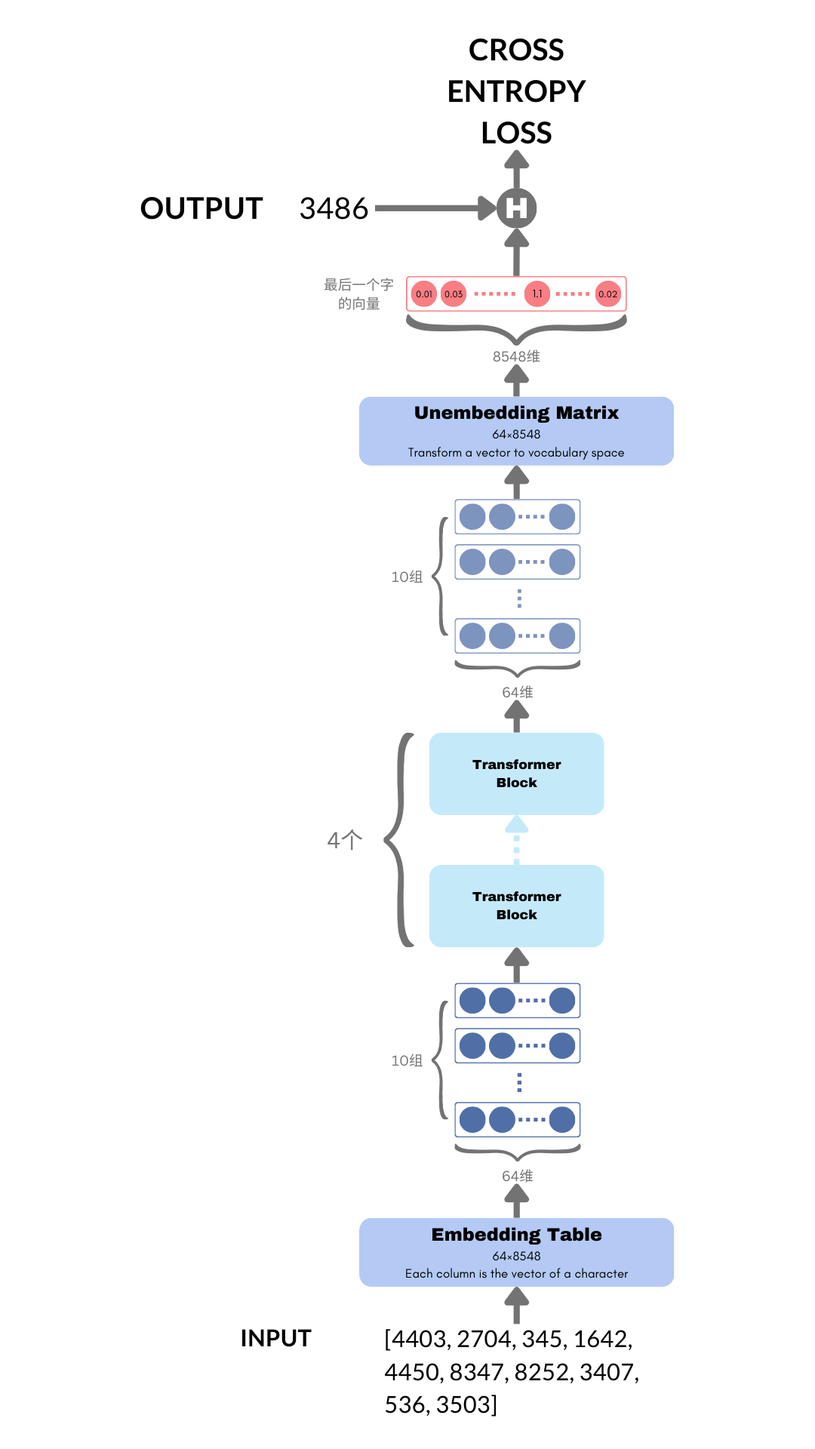
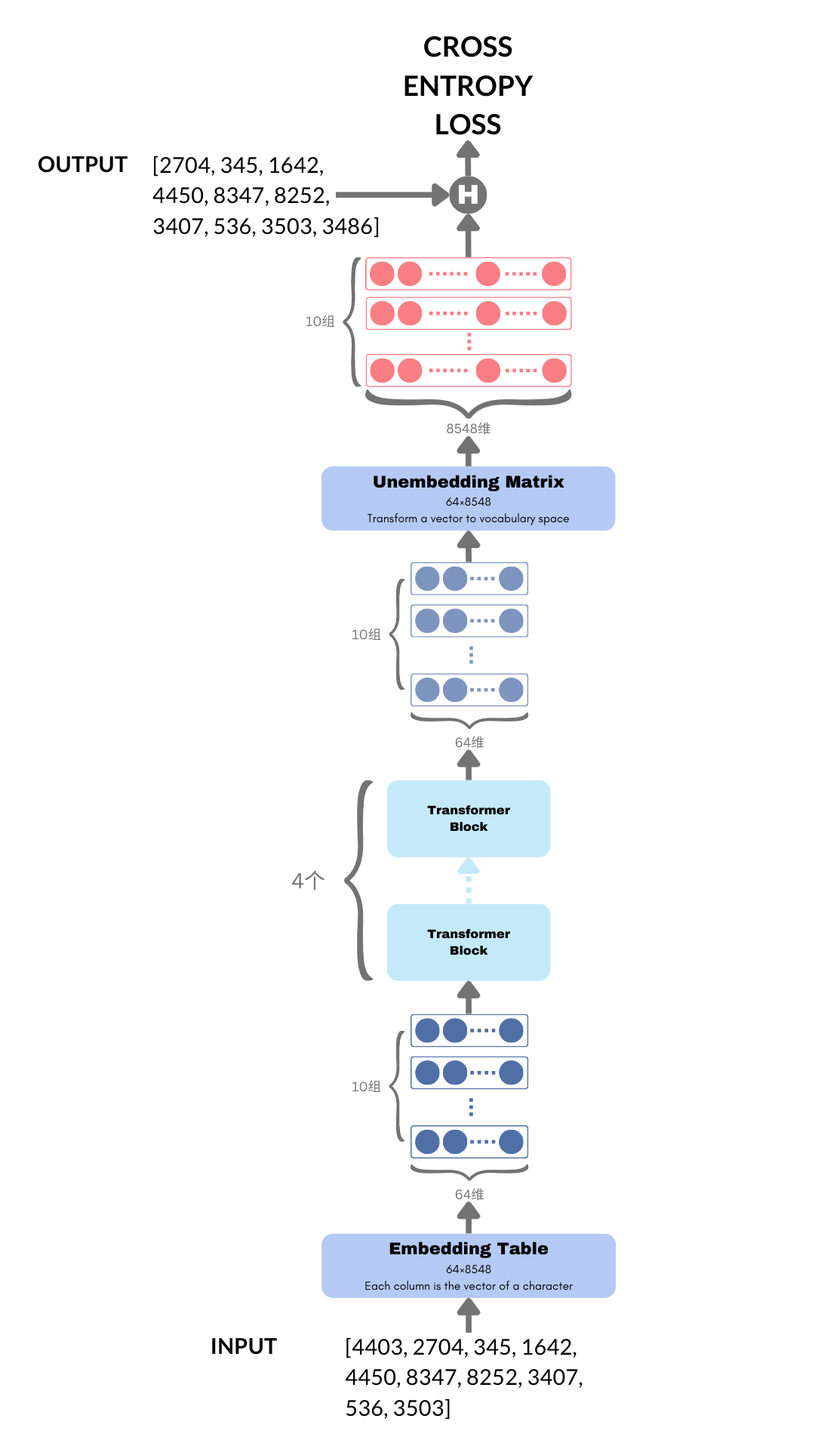
GITBOOK-13: No subject

Changed region(s): [[0.1833, 0.0, 0.825, 1.0], [0.2444, 0.9062, 0.3667, 0.9375], [0.0611, 0.0938, 0.1528, 0.125]]

diff --git a/book/2.-kai-shi-xing-dong/2.8-yu-xun-lian.md b/book/2.-kai-shi-xing-dong/2.8-yu-xun-lian.md
@@ -1,0 +1,120 @@
+# 2.8 预训练
+
+本章的前7节从准备数据开始，到设计出模型的基本结构，可以说走过了漫长但扎实的一系列步骤。在真正将transformer扩展为可训练的完整模型前，让我们回到最初的起点，纵览全局，看看我们是否仍朝着正确的方向前进。
+
+在[2.5节](2.5-xu-lie-de-nan-ti.md)的图2.3中，我们设计了一个大致的框架，输入255个1024维向量，经过中间层当时尚不清楚的处理方法，得到新的255个1024维向量，然后再将这255个向量通过另一种不清楚的方法合并为一个1024维向量。将最终的这个向量与预期的输出向量相比，优化它们之间的差距。
+
+后来，我们逐渐摸索出注意力机制，于是中间层就可以用transformer架构来实现。细心的读者或许已经发现，transformer的输入与输出维度完全一致。这呼应了当时我们的设计，使多层transformer叠加成为可能。
+
+但我们始终没有谈到如何处理最后一层的输出，如何从255个1024维向量变成1个1024维向量？
+
+如果坚持使用与字数无关的参数量，这个问题似乎又变得异常困难。我们或许应该换个角度看问题，重新审视一下transformer输出的结果。
+
+在注意力机制和因果性限制的前提下，每个字向量都融合了更靠前的其它字的信息。这不免让人怀疑，我们真的有必要用所有字向量来预测下一个字吗？既然最后一个字的向量融合了前面所有字的信息，直接用它预测不就好了。这样一来，直接取最后一个字的1024维向量作为结果，与期望的字向量求差并优化，不仅解决了参数量与字数相关的问题，甚至都不需要额外参数了。
+
+的确，这是一个好方法，而且看起来更符合transformer的设计哲学。不过你可能会想， 这样一来前面那些字向量还有用吗？答案是有用。只用最后一个字向量不代表前面的字向量会失去价值。相反，由于注意力机制需要在字之间寻求依赖关系，每个字向量都对最后一个字有所贡献，它们缺一不可。
+
+不过，这仍然有种浪费的感觉。前面的字向量最后难道完全没用了吗？其实还真不是。
+
+那些位于中间位置的字向量也可以用来预测下一个字，在因果性的限制下，它本身也是一句话的末尾，只不过这句话更短，而且是另一段话的子句。其实[2.1节](2.1-shu-ju-you-xian.md)我们就谈及了这个问题，当时，我们把同一首诗按照输入长度的不同构建了多份数据。本质上，它们都是最长那份数据的子句，但为了让模型能学会从任意位置接话，这种多样性还是很有必要。
+
+此时，再看这种方案我们就会发现其中巨大的好处。每个字向量如果都用来预测下一个字，不是正好可以对应于一个长句的所有子句吗？既然预测最长的那句必须同时计算出所有中间字向量，那不如顺便同时预测所有字向量对应的下一个字。对于长度为256的一段句子，我们可以将其拆分成长度从1\~255的子句，每个子句需要预测的正好是第2\~256个字。拿“白日依山盡，黃河入海流”这段短句作为例子的话，原本[2.2节](2.2-cong-wen-ben-dao-shu-zi.md)设计的输入输出是
+
+> **Input**: \[4403, 2704, 345, 1642, 4450, 8347, 8252, 3407, 536, 3503]
+>
+> **Output**: 3486
+
+现在，我们将输出扩展成与输入相同长度的一组数，每个对应位置的输出恰好是输入位置的下一个字。
+
+> **Input**: \[4403, 2704, 345, 1642, 4450, 8347, 8252, 3407, 536, 3503]
+>
+> **Output**: \[2704, 345, 1642, 4450, 8347, 8252, 3407, 536, 3503, 3486]
+
+现在，模型结构既简单清晰，又提供了训练效率，一举两得。
+
+不过，经过这么一番变动，字向量的含义会被迫发生变化。本来，它一直用来表示当前字的内涵，因为我们期待最后额外用一层神经网络来根据这些字预测下一个字。但现在，字向量本身就要用来预测下一个字，那么它更应该被解释为代表下一个字的含义。我们可以把字向量从输入层到输出层的变化想象为一个连续的过程。最开始，字向量仅代表当前字的含义，而且与上下文的其它字无关。经过一层又一层的transformer，字向量逐渐吸收其它字的信息，并转变自己的含义。在经过最后一层后，它完全变成了最有可能出现的下一个字的含义。
+
+至此，整个流程基本上确定了，但最后计算误差的方式其实尚未明确。虽然我们一直在说把实际输出的1024维向量和期望输出的1024维向量作比较，求它们之间的差距，但这只是一个直觉上的比喻，实际操作起来不太合适。原因是高维向量本身并没有物理意义，如果训练终结于此，在实际使用的时候，我们该如何将输出的1024维向量转换为文字呢？要知道，在已知字的情况下，查Embedding Table可以直接得到向量。但在已知向量的情况下，仅靠查表可是无法找到字的。
+
+为了把从向量到字的流程彻底打通，我们需要在最后添加一个Unembedding层。它作为Embedding的反过程，将1024维向量解码到8548维空间。在这个等同于词典大小的空间中，我们可以认为每个元素都代表着该下标对应字的概率（不知你是否还记得，词典的每个字都有一个ID，这个ID正是此处8548维向量中元素的下标）。
+
+有了每个字的概率，以及预期的真实ID，我们就可以将其当作一个多分类问题，计算交叉熵损失。通俗来说，交叉熵损失衡量了对多个类别的概率预测与真实类别之间的差距。交叉熵损失越小，说明概率的预测越接近实际值。
+
+终于，我们打通了从输入到输出的全流程，是时候松口气了。让我们欣赏一下迄今为止的杰作。
+
+<figure><img src="../.gitbook/assets/tutorial_llm.png" alt=""><figcaption><p>图2.8 TutorialLLM的网络结构</p></figcaption></figure>
+
+让我对照上图，再完整介绍一下从输入到输出的全过程。
+
+* 输入数据仍然是这一段——“白日依山盡，黃河入海”，对应的预期输出是“日依山盡，黃河入海流”，图中直接用ID表示文字。
+* 输入的ID先经过一个Embedding Table，查表找出每个ID对应的64维向量。注意，前面讲解时我们一直说字向量维度是1024。但受计算资源限制，为了更容易在自己电脑上跑起来，我在代码中把维度降低到了64。Embedding Table的输出是10个64维向量，对应输入的10个字。
+* 这组向量经过4个Transformer Block，输出仍然是10个64维向量。中间的过程想必读者已经了解，仍不清楚的同学可以回到前几节温习一下。
+* 接下来，用一个Unembedding Matrix将每个64维向量变成8548维向量。8548维向量的每个元素预测了该位置所对应字的概率。
+* 最后，分别计算每个8548维向量与预期ID的交叉熵损失。将10个损失加起来作为总损失，并用反向传播算法优化网络参数。
+
+当然，实现这整套流程的代码比我们文中的描述复杂许多，我们谈及的每一步都需要用PyTorch精准实现，且常常需要反复调试。不过，这个过程我已完成，为了不让本书变得过于繁琐，我们不在书中详细讲解代码实现。但我们可以看一下实际运行效果，好有个直观的认识。
+
+{% hint style="info" %}
+本文提到的所有代码都可以在GitHub仓库[TutorialLLM](https://github.com/jingedawang/TutorialLLM)中访问。想要亲自实践的朋友，可以参考README中的使用方法。
+{% endhint %}
+
+训练过程中，每迭代100次，输出模型在训练集和测试集上的损失，并让模型以“春夜喜雨”开头写诗，写满256个字。我们预期损失值在两个数据集上同步下降，且写的诗质量越来越高。以下是部分输出片段。
+
+```
+Step 0, train loss 0.0000, evaluate loss 9.2029
+Generate first 100 characters of poems starting with 春夜喜雨:
+春夜喜雨墻鵷函媵分塏潏鍳母付菱莽换驃慚憮儲躕袗鯆溫沲芳罔窻倏菂弓匌莿尚茸茇培嵍鵝掣卵耽敧青魄叚𪆟瞑唱鄢懅齧泉綘躅鷂㦬烻超玃鯽敝俱惏廏鐐處翻矼奭媼悟出撾孃詠可碙媌鶂旐垤嵼鶤柘輩噇篲詮擲憇純絃蜘儔緬簇澎雨搰褚磐歙
+Step 100, train loss 6.3026, evaluate loss 6.2829
+Generate first 100 characters of poems starting with 春夜喜雨:
+春夜喜雨剡冰 閒路。耕銅崔出玫胖，上惺尋。
+
+
+樹天歸贈，。
+
+
+強寥下戎景人。
+火亂潔頴明戍流漸道一室勢。
+摶磻四春相似
+，年陽下了行爭癥追赤且木少塞是門相。
+摘言迎來夢賦示營似吾首。
+暮墜鬢纔征蕉春崖五牀
+
+<Omit many iterations here...>
+
+Step 5000, train loss 4.7134, evaluate loss 4.9221
+Generate first 100 characters of poems starting with 春夜喜雨:
+春夜喜雨發早，唯應尋與塵遠山。
+尋敬況皆迷情重，見買腰量漢寒宵。
+
+贈家石橋危師兼寄一題因作四使者池應制
+梧桐葉朝廷塵，一曲鐘明冠黑。
+西上國邀辭外，主詞高須禁圖違。
+因循勢祿應承急，不知育符惟開。
+舊玄元侍
+
+<Omit many iterations here...>
+
+Step 10000, train loss 4.3883, evaluate loss 4.6798
+Generate first 100 characters of poems starting with 春夜喜雨:
+春夜喜雨人掃轉，煙穗半開笑倚簷。
+美酒飄生弱氈粉，記詩繫舊光桑榆。
+鶯別夜悲行滿袖，簟前年態踏爲顏。
+雲間葉絡長簾鉢，舊漏孤燈照水香。
+尊容暮事黃雲伴，使我清光小舊狂。
+
+重夜涼
+自謂長安不速時，當來不得鷓鴣
+```
+
+可以看到，
+
+* 当step=0时，模型还没开始训练，它的参数全部来自随机初始化，因此输出也完全随机，看起来就像乱码一样。
+* 当step=100时，模型开始尝试使用标点符号并换行，但用的乱七八糟，文字也没有任何含义。
+* 当step=5000时，格式上终于有了起色，模型正在努力让每一行输出两句话，但每句话的长短仍不尽如人意。不过，我们可以发现，它的用词变得合理了许多，虽然仍然没有组成完整的句子。
+* 当step=10000时，格式变得非常整洁，外观看起来像一首七言诗。细看每句话，能感到一丝韵味，仿佛学到了一点诗的精髓。但客观来说，它对语句的整体把握还是差了些，一方面押韵不成功，另一方面缺乏主旨，略显空洞。
+
+如果观察训练损失（train loss）和测试损失（evaluate loss），会发现两者都在下降，但训练损失下降得更快。这很正常，因为我们把数据分成了两份，一份用作训练，另一份用作测试。由于优化算法始终只能看到训练集的数据，它优化的方向自然是让模型生成的结果越来越贴近训练集文本。训练损失越小，意味着模型的预测跟训练集中真实文本越接近。但跟训练集越接近，有时候可能在测试集上反而表现不佳，这种情况叫做“过拟合”。举个例子，语文课本来是为了提高同学们的文学素养，但在考试题上过度优化就会导致过拟合现象。比如，为了作文能得高分，我疯狂地练习议论文套路，用固定的格式、夸张的笔法、雄伟的事例把文章写得惊心动魄。我的确得了高分，但这并不代表我的文学素养提高了。相反，我写散文、记叙文、小说的能力可能变得更差，我被困在一个思维定势中跳不出来。如果此时参加另一个文学征文比赛，我肯定就没法入围。在这个例子中，高考作文是训练集，征文大赛是测试集。大脑在训练集上长期训练导致过拟合，从而无法适应训练集的环境，虽然它们的初衷可能是一致的。
+
+总体来说，我们的结果并不完美，但第一次训练模型能取得这个成果已经相当不错，况且还是亲眼看着它在自己电脑上跑出来的。
+
+我们把这套训练过程称为预训练（pretrain）。之所以叫“预”训练，意味着这只是训练的第一个阶段。在这个阶段，模型读遍天下文字，学会了语言的底层逻辑。可以说它掌握了语言的道，但术这方面还是空白。你会发现，预训练之后的模型只会不停地写诗，既不懂得何时停止，也不会听从我们的指令。下一节，我们将了解如何让模型听从我们的指挥，真正成为人类的工具。

diff --git a/book/2.-kai-shi-xing-dong/2.7-transformer.md b/book/2.-kai-shi-xing-dong/2.7-transformer.md
@@ -1,8 +1,4 @@
-# 2.8 Transformer
-
-{% hint style="info" %}
-Transformer是现代大语言模型的基石，它是一个精心设计的神经网络结构，由注意力机制及其它网络层组成。从注意力机制，到transformer，再到今天的大语言模型，AI研究者们趟出了一条通往AGI（Artificial General Intelligence，通用人工智能）的道路，曙光依稀可见。
-{% endhint %}
+# 2.7 Transformer
 
 上节的最后一个版本引入了可训练参数，从而让注意力权重有了更多可能性。但请注意，图2.6中间行所代表的计算与前一个版本并无区别，都是矩阵乘以它自身的转置，即
 
@@ -22,7 +18,7 @@ $$
 
 $$
 X^{\prime} = MX \\
-X_2^{\prime} = M_2Y \\
+X_2^{\prime} = M_2X \\
 W = X^{\prime} X_2^{\prime T}
 $$
 
@@ -32,7 +28,7 @@ $$
 
 虽然我们从W的对称性引出了这两种方法，但事实上它们的作用比想象的更大。
 
-在实际的注意力机制中，除了使用M和M2处理输入得到X'和X2'外，还额外增加了第三个变换矩阵，用于最后与权重矩阵W相乘。为了清晰说明这三个矩阵的作用，研究者们给它们起了响亮的名字，分别是Query、Key和Value。Query矩阵对应于我们这里的M，Key对应于我们的M2。这三个名字直观地表达了它们各自代表的含义。经过Query变换后的向量在计算W的时候作为左操作数，代表了正在搜寻注意力的当前向量，因此使用“Query（查询）”一词。同理，经过Key变换后的向量在计算W的时候则作为右操作数，代表了被检视的参考向量，只有关键（key）信息才会被当前向量注意到。经过Value变换后的向量则是原始输入的一个化身，权重矩阵W将施加在该向量上以得到最终结果。这三个参数矩阵使得模型可以学到更多更复杂的知识，并有能力拆分注意力的各个方面，可以说相当精妙。
+在实际的注意力机制中，除了使用M和M2处理输入得到X'和X2'外，还额外增加了第三个变换矩阵，用于最后与权重矩阵W相乘。为了清晰说明这三个矩阵的作用，研究者们给它们起了响亮的名字，分别是Query、Key和Value。Query矩阵对应于我们这里的M，Key对应于我们的M2。这三个名字直观地表达了它们各自代表的含义。经过Query变换后的向量在计算W的时候作为左操作数，代表了正在搜寻注意力的当前向量，因此使用Query（查询）一词。同理，经过Key变换后的向量在计算W的时候则作为右操作数，代表了被检视的参考向量，只有关键（key）信息才会被当前向量注意到。Value变换则决定具体哪些有价值（value）的信息会从参考向量叠加到当前向量上。这三个参数矩阵使得模型可以学到更多更复杂的知识，并有能力拆分注意力的各个方面，可以说相当精妙。
 
 而方法二增加的因果限制则彻底让注意力机制成为主宰语言模型的关键。试着想象，如果任何一个字都既可以参考前面的字又可以参考后面的字，它的向量就包含了许多来自未来的信息。然而实际应用与训练场景不同的是，我们希望模型一个字一个字地输出。此时，待预测的字只能包含所有出现在前面的信息，但这些信息有可能不足以支持它做出正确的预测。也就是说，本质上我们的语言就是包含因果性的，所以如果在训练时不限制因果性，模型就有可能在使用时表现不佳。
 
@@ -40,15 +36,15 @@ $$
 
 <figure><img src="../.gitbook/assets/transformer.png" alt=""><figcaption><p>图2.7 transformer网络结构</p></figcaption></figure>
 
-从左上角开始，输入的255个字表示为255个1024维向量。这些向量经过Query、Key和Value矩阵后扩展成三份，但各自仍然是255个1024维向量，只不过代表了不同的含义。经过Query变换后的输入向量关注当前字的信息，并寻求与其它字的相关性。经过Key变换后的输入向量关注该字作为参考字时的信息，并寻求与当前字的相关性。经过Value变换后的输入则包含了更完整的当前字的信息，并准备在各个字之间叠加注意力。Query和Key处理后的向量会先计算相似度，得到右上角所示的权重矩阵，然后将矩阵的右上元素全部置零，以维持因果性。
+从左上角开始，输入的255个字表示为255个1024维向量。这些向量经过Query、Key和Value矩阵后扩展成三份，但各自仍然是255个1024维向量。如前文所说，它们代表了不同的含义。Query和Key处理后的向量会先计算相似度，得到右上角所示的权重矩阵，然后将矩阵的右上元素全部置零，以维持因果性。
 
-接下来是一个前文未提到的操作，对权重矩阵施加softmax函数。效果是让每一行的数加起来和为1，相当于把原始的相似性大小转变为一个概率。在概率视角下，我们就能确定叠加多少比例的参考字向量到当前字向量，于是注意力机制有了清晰的物理含义。
+接下来是一个前文未提到的操作，对权重矩阵施加softmax函数。效果是让每一行的数加起来和为1，相当于把原始的相似性大小转变为一个概率。在概率视角下，我们就能确定叠加多少比例的参考字向量到当前字向量，于是注意力机制有了更清晰的物理含义。
 
 Value分支与softmax之后的权重矩阵相乘，就得到结合了注意力的一组字向量。这组向量的维度和输入完全一致，可以认为原始的每个字向量摇身一变，虽然身份还是代表那个字，但内在增添了许多对周围其它字的理解。
 
 再往下，则是一串典型的传统神经网络结构，被称为前馈神经网络（Feedforward Neural Network, FFN）。先经过一个1024×4096的矩阵变换，将每个1024维字向量转换为4096维字向量。然后经过一个ReLU函数，这个函数非常简单，当输入大于0时原样输出，小于等于0时直接输出0，相当于对负信号的截断。ReLU看起来简单，但没它还真不行，它引入的非线性是神经网络超强拟合能力的关键。最后，使用一个4096×1024的矩阵将每个4096维字向量再变回1024维。没错，最后的输出仍然是255个1024维向量，好像实现了一次轮回。
 
-整个过程中，注意力计算是大模型成功的关键。正是注意力机制让AI可以有选择地结合上下文，使每个字的内在表示变得更丰富。但我们也不能忽略后面的前馈神经网络，特别是其中先升维再降维的操作。与注意力机制不同的是，前馈神经网络中的两个线性变换针对每个字向量单独操作。换句话说，只用一套参数处理所有字向量。我们可以把注意力机制和这里的线性变换层看作互为正交的两个步骤。注意力机制注重字和字之间的关系，但并不十分在意字向量本身含义的变化。诚然，字向量在注意力机制前后肯定是变化的，但变化主要体现在对其它字信息的融合，而不是它自身含义的变化。前馈网络则恰恰相反，由于只关注每个字向量本身，模型可以学会如何更好地在高维空间中表达字的含义。升维操作就好像让模型用白话文解释文言文，它自然能解释得更细致，同时获得更准确的理解。ReLU在它的白话文解释上切除那些负值，正如告诉模型你的解释里存在错误，被我好心修复了。而最后的降维操作则是再次把白话文解释压缩为简略的文言文，且含义在维度变化前后保持不变。这既能体现模型对文本含义的深刻理解，也利于降低计算量。
+整个过程中，注意力计算是大模型成功的关键。正是注意力机制让AI可以有选择地结合上下文，使每个字的内在表示变得更丰富。但我们也不能忽略后面的前馈神经网络，特别是其中先升维再降维的操作。与注意力机制不同的是，前馈神经网络中的两个线性变换针对每个字向量单独操作。换句话说，只用一套参数处理所有字向量。我们可以把注意力机制和这里的线性变换层看作互为正交的两个步骤。注意力机制注重字和字之间的关系，但并不十分在意字向量本身含义的变化。诚然，字向量在注意力机制前后肯定是变化的，但变化主要体现在对其它字信息的融合，而不是它自身含义的变化。前馈网络则恰恰相反，由于只关注每个字向量本身，模型可以学会如何更好地在高维空间中表达字的含义。维度先升后降看起来有些奇怪，但可以这样理解。升维操作就好像让模型用白话文解释文言文，它自然能解释得更细致，同时获得更准确的理解。ReLU在它的白话文解释上切除那些负值，正如告诉模型你的解释里存在错误，被我好心修复了。而最后的降维操作则是再次把白话文解释压缩为简略的文言文，且含义在维度变化前后保持不变。这既能体现模型对文本含义的深刻理解，也利于降低计算量。
 
 我们把以上的模型结构称为transformer，寓意对文本含义的“变换”。
 

diff --git a/book/2.-kai-shi-xing-dong/2.3-da-jian-mo-xing.md b/book/2.-kai-shi-xing-dong/2.3-da-jian-mo-xing.md
@@ -1,12 +1,12 @@
-# 2.4 搭建模型
+# 2.3 搭建模型
 
-1.3节曾简单介绍过神经网络的概念，其中有一幅人工神经网络的示意图，读者或许并不陌生。人们经常用圆圈代表人工神经元，用线把这些圆圈连接起来，形成一层一层的结构。
+[1.3节](../1.-tou-nao-feng-bao/1.3-shen-jing-wang-luo.md)曾简单介绍过神经网络的概念，其中有一幅人工神经网络的示意图，读者或许并不陌生。人们经常用圆圈代表人工神经元，用线把这些圆圈连接起来，形成一层一层的结构。
 
 不过，我们当时并没有详细说明这种神经网络模型该如何应用到具体的场景。针对我们手里现有的数据，该怎么设计模型的规格？别急，让我们先从一个简单案例看起。
 
 读研究生的同学可能有过这种感觉，就是不知道什么时候会得到导师的表扬，也搞不清楚什么情况下会挨骂。小王同学为此吃了不少苦头，他决定找出其中的缘由。但导师的脾气阴晴不定，他发现并没有哪种因素可以决定导师的心情，似乎是各种原因交织在一起产生的结果。他相信导师不会无缘无故批评别人，这里面一定暗藏玄机。小王向我请教，我告诉他，你老师的心情肯定是一个非线性系统，你可以用神经网络来拟合这个系统。具体做法很简单，先列出你自己认为可能存在的影响因素，然后每天把这些因素记录下来，同时把老师当天的心情也记录下来。连续记录一个月，你就有了30条训练数据。然后写程序创建一个神经网络，用这些数据训练这个神经网络。到了第31天，你再用这个神经网络预测一下老师的心情，看跟实际结果能不能对的上。小王觉得这个主意非常科学，屁颠屁颠地开始着手实现。
 
-他设计了一个三层神经网络。从第一层输入三个数，代表他认为比较重要的三个影响因素，分别是在办公室的频率、汇报的工作进展以及天气是否晴朗。我们姑且不评价这三个因素选的是否合适，小王既然这样选了自然有他的道理。每个输入都用0\~1之间的小数表示。在办公室的频率为0表示完全不去上班，1表示一天到晚一直在办公室呆着。汇报的工作进展为0表示完全没有进展，1表示远超预期进度，0.5表示符合预期。天气为0表示大雨，1表示万里无云的晴天。这三个数输入给第二层的四个神经元，计算得到四个结果。这四个结果再输入给第三层的唯一一个神经元，最后的输出用于判断老师的心情是好还是坏。当然，最后的输入也是一个0\~1之间的数，0表示小王会被老师大骂一顿，1表示老师对小王和蔼可亲。
+他设计了一个三层神经网络。从第一层输入三个数，代表他认为比较重要的三个影响因素，分别是在办公室的频率、汇报的工作进展以及天气是否晴朗。我们姑且不评价这三个因素选的是否合适，小王既然这样选了自然有他的道理。每个输入都用0\~1之间的小数表示。在办公室的频率为0表示完全不去上班，1表示一天到晚一直在办公室呆着。汇报的工作进展为0表示完全没有进展，1表示远超预期进度，0.5表示符合预期。天气为0表示大雨，1表示万里无云的晴天。这三个数输入给第二层的四个神经元，计算得到四个结果。这四个结果再输入给第三层的唯一一个神经元，最后的输出用于判断老师的心情是好还是坏。当然，最后的输出也是一个0\~1之间的数，0表示小王会被老师大骂一顿，1表示老师对小王和蔼可亲。
 
 <figure><img src="../.gitbook/assets/xiaowangtask.png" alt=""><figcaption><p>图2.1 小王用来预测老师心情的神经网络模型</p></figcaption></figure>
 

diff --git a/book/2.-kai-shi-xing-dong/2.6-zhu-yi-li-ji-zhi.md b/book/2.-kai-shi-xing-dong/2.6-zhu-yi-li-ji-zhi.md
@@ -1,4 +1,4 @@
-# 2.7 注意力机制
+# 2.6 注意力机制
 
 图2.3的连线其实有更为直观的解释。由于每组向量对应于一个字，我们可以认为它构建了字与字之间的连接关系。细心的同学可能发现，虽然中间层每组向量的元素个数可以与输入不同，但向量的组数却仍然是255个。图中可以看到，每个输入向量都发出了一条水平箭头指向右侧的中间层向量。这其实是经过精心设计的。
 
@@ -6,7 +6,7 @@
 
 当向量与字对应之后，我们就对整个神经网络在做的事情有了一个宏观的了解。比如，我们可以认为，图2.3中间层的第一组神经元尝试从输入的255个字中提取信息，以加深自己对第一个字的理解。换句话说，第一个字在1024维空间中的高维表示从输入向量变成了中间层的输出向量，而且综合了其它字的信息。可能你暂时想不明白这个变化意味着什么，让我们来看个例子。
 
-假设输入的是这么一句话：“只要你向着阳光走，影子就会躲在后面”。这句话里面，“光”预示着光明的未来，是一种积极的意象。但如果换成这句：“我炒股把家底都输光了”。这里的“光”则表示空空如也，暗示着悲惨的结局。多义字在中文并不少见，这也是为什么2.5节强调了我们要在高维空间中表示字的含义。然而，虽然输入层的“光”需要包括它所蕴含的各种含义，中间层则不一定。在看过了整句话中的其它字后，作为人类，我们很容易明白，“光”在当前这句话中应取其积极含义。于是，中间层的“光”可以只保留有关的含义而丢弃无关的含义，向量在1024维空间中从原始位置移动到另一个更接近其真实用意的位置。这便是我们希望神经网络做的事情。
+假设输入的是这么一句话：“只要你向着阳光走，影子就会躲在后面”。这句话里面，“光”预示着光明的未来，是一种积极的意象。但如果换成这句：“我炒股把家底都输光了”。这里的“光”则表示空空如也，暗示着悲惨的结局。多义字在中文并不少见，这也是为什么[2.4节](2.4-gao-wei-yu-yi-kong-jian.md)强调了我们要在高维空间中表示字的含义。然而，虽然输入层的“光”需要包括它所蕴含的各种含义，中间层则不一定。在看过了整句话中的其它字后，作为人类，我们很容易明白，“光”在当前这句话中应取其积极含义。于是，中间层的“光”可以只保留有关的含义而丢弃无关的含义，向量在1024维空间中从原始位置移动到另一个更接近其真实用意的位置。这便是我们希望神经网络做的事情。
 
 {% hint style="info" %}
 我们从神经网络的结构推测其内部的工作机制，虽然不一定对，但结构与功能通常是紧密相关的。正因为我们希望它以某种方式处理数据，我们才把网络设计成特定的样子。本文有时以目标出发引导大家想出合理的方案，但有时我会直接给出合理的方案，然后解释为什么这样设计。希望读者可以跟随文中的思路，必要时停下来思考一下再往后读。

diff --git a/book/README.md b/book/README.md
@@ -1,11 +1,11 @@
 # 前言
 
-从2022年底至今，大模型已经席卷了AI（人工智能）的几乎所有领域。不懂点大模型知识，彷佛就和AI脱了节。
+2022年底至今，大模型席卷了AI（人工智能）的几乎所有领域。不懂点大模型知识，彷佛就和AI脱了节。
 
-如果你在网上搜索大模型入门教程，会发现大部分在教你如何用大模型，而不是如何制作大模型。这倒合情合理，因为当下的市场需要广大开发者利用国内外领先的大模型API构建应用，而不是另起炉灶训练自己的大模型。2023年，中国大模型厂家百花齐放，但真正能撑到泡沫褪去的估计不会太多。
+如果你曾尝试过搜索大模型入门教程，会发现大部分在教你如何用大模型，而不是如何制作大模型。这倒合情合理，因为当下的市场需要广大开发者利用国内外领先的大模型API构建应用，而不是另起炉灶训练自己的大模型。2023年，中国大模型厂家百花齐放，但真正能撑到泡沫褪去的估计不太多。
 
 不过，这并不意味着我们不需要学习大模型的内部原理。作为开发者，你应该明白了解技术的底层机制才能更好地运用它。但由于大模型本身的复杂度，以及训练所需的昂贵代价，网上系统介绍大模型底层原理的教程很少。仅有的一些文章博客理论性较强，对初学者不甚友好。在我转型学习大模型的过程中，这些困难让我决心编写这个教程，希望能帮助到更多人。
 
-本文面向广大初学者，只要你具备一定的数学和编程基础，阅读本文就不会有任何障碍。我们会从0开始，一步步搭建出大模型的所有模块。为了让每位读者都可以一边学习一边实践，我们使用的是一个微缩版的大模型，它可以运行在任何一台电脑上。所有讲解以一个专为中国读者设计的案例贯穿始终，让你在运行代码的过程中就能感到AI的魅力。
+本文面向广大初学者，只要你具备一定数学和编程基础，阅读本文就不会有任何障碍。我们会从0开始，一步步搭建出大模型的所有模块。为了紧密结合理论和实践，我们将使用一个微缩版的大模型，它可以运行在任何一台电脑上。所有讲解以一个专为中国读者设计的案例贯穿始终，让你在运行代码的过程中感受AI的魅力。
 
-需要强调的是，本文并不包含任何实用性的大模型训练技巧，也不会过于深入细节。我希望用通俗易懂的语言，结合实际可运行的程序，让大家对大模型的工作原理有一个全面的体会。对于想要深入研究的朋友，本文提供了配套的源代码，可访问[Github/TutorialLLM](https://github.com/jingedawang/TutorialLLM)免费获取。
+需要强调的是，本文并不包含任何实用性的大模型训练技巧，也不会过于深入细节。我希望用通俗易懂的语言，结合实际可运行的程序，让大家对大模型的工作原理有一个全面的体会。本文的配套源代码位于GitHub的[TutorialLLM](https://github.com/jingedawang/TutorialLLM)仓库，供读者免费取用。

diff --git a/book/2.-kai-shi-xing-dong/2.4-gao-wei-yu-yi-kong-jian.md b/book/2.-kai-shi-xing-dong/2.4-gao-wei-yu-yi-kong-jian.md
@@ -1,8 +1,8 @@
-# 2.5 高维语义空间
+# 2.4 高维语义空间
 
 先来尝试解决输入无意义的问题。
 
-回想我们自己，当读到一个字的时候，几乎瞬间就能明白它的含义。整个过程甚至是下意识的，仿佛大脑中隐含着一个字典，一看到这个字就能立即跳转到其解释。但此字典非我们前面提到的字典。在2.3节，我们只是把字转换到了ID，而大脑则会更进一步，把字转换成它的含义。我们尚不知道这种含义如何在大脑中存储和表示，但我们可以肯定地说，它一定不只是一个ID。
+回想我们自己，当读到一个字的时候，几乎瞬间就能明白它的含义。整个过程甚至是下意识的，仿佛大脑中隐含着一个字典，一看到这个字就能立即跳转到其解释。但此字典非我们前面提到的字典。在[2.2节](2.2-cong-wen-ben-dao-shu-zi.md)，我们只是把字转换到了ID，而大脑则会更进一步，把字转换成它的含义。我们尚不知道这种含义如何在大脑中存储和表示，但我们可以肯定地说，它一定不只是一个ID。
 
 从数学的角度上看，任何事物都可以用数字表示。ID可以用数字表示，事物的含义其实也可以用数字表示。不过，当我们用数字表示含义的时候，它必须具有内在价值，或者说存在物理解释。比如，用摄氏度表示温度，每个数字都与具体的物理世界相关联，0℃正好对应着冰的熔点。这种物理解释将数字本身的性质与物理现象统一起来，越小的数代表越低的温度，而且温度变化和数字变化的规律是一致的，也就是说，数字加减乘除的结果仍然可以解释，于是对温度的研究就可以转化为数学运算。
 
@@ -22,7 +22,7 @@
 
 既然我们已经决定让模型自己学习每个维度的解释，那索性每个维度的值也交给模型学习就好了。一开始，我们只需要设置1024个随机值，模型在训练的过程中自然会明白如何合理地拆分字的含义，将其融入这1024个维度中。
 
-为了更方便理解，我们把2.3节的输入数据拿过来试试。首先，输入输出的文本长这样
+为了更方便理解，我们把[2.2节](2.2-cong-wen-ben-dao-shu-zi.md)的输入数据拿过来试试。首先，输入输出的文本长这样
 
 > **Input**: 白日依山盡，黃河入海
 >

diff --git a/book/SUMMARY.md b/book/SUMMARY.md
@@ -7,15 +7,14 @@
   * [1.3 神经网络](1.-tou-nao-feng-bao/1.3-shen-jing-wang-luo.md)
   * [1.4 读遍天下文字](1.-tou-nao-feng-bao/1.4-du-bian-tian-xia-wen-zi.md)
 * [2. 开始行动](2.-kai-shi-xing-dong/README.md)
-  * [2.1 目标](2.-kai-shi-xing-dong/2.1-mu-biao.md)
-  * [2.2 从数据出发](2.-kai-shi-xing-dong/2.2-cong-shu-ju-chu-fa.md)
-  * [2.3 从文本到数字](2.-kai-shi-xing-dong/2.3-cong-wen-ben-dao-shu-zi.md)
-  * [2.4 搭建模型](2.-kai-shi-xing-dong/2.4-da-jian-mo-xing.md)
-  * [2.5 高维语义空间](2.-kai-shi-xing-dong/2.5-gao-wei-yu-yi-kong-jian.md)
-  * [2.6 序列的难题](2.-kai-shi-xing-dong/2.6-xu-lie-de-nan-ti.md)
-  * [2.7 注意力机制](2.-kai-shi-xing-dong/2.7-zhu-yi-li-ji-zhi.md)
-  * [2.8 Transformer](2.-kai-shi-xing-dong/2.8-transformer.md)
-  * [2.9 预训练](2.-kai-shi-xing-dong/2.9-yu-xun-lian.md)
-  * [2.10 指令微调](2.-kai-shi-xing-dong/2.10-zhi-ling-wei-tiao.md)
-  * [2.11 与人类偏好对齐](2.-kai-shi-xing-dong/2.11-yu-ren-lei-pian-hao-dui-qi.md)
+  * [2.1 数据优先](2.-kai-shi-xing-dong/2.1-shu-ju-you-xian.md)
+  * [2.2 从文本到数字](2.-kai-shi-xing-dong/2.2-cong-wen-ben-dao-shu-zi.md)
+  * [2.3 搭建模型](2.-kai-shi-xing-dong/2.3-da-jian-mo-xing.md)
+  * [2.4 高维语义空间](2.-kai-shi-xing-dong/2.4-gao-wei-yu-yi-kong-jian.md)
+  * [2.5 序列的难题](2.-kai-shi-xing-dong/2.5-xu-lie-de-nan-ti.md)
+  * [2.6 注意力机制](2.-kai-shi-xing-dong/2.6-zhu-yi-li-ji-zhi.md)
+  * [2.7 Transformer](2.-kai-shi-xing-dong/2.7-transformer.md)
+  * [2.8 预训练](2.-kai-shi-xing-dong/2.8-yu-xun-lian.md)
+  * [2.9 指令微调](2.-kai-shi-xing-dong/2.9-zhi-ling-wei-tiao.md)
+  * [2.10 与人类偏好对齐](2.-kai-shi-xing-dong/2.10-yu-ren-lei-pian-hao-dui-qi.md)
 * [3. 新的起点](3.-xin-de-qi-dian.md)

diff --git a/book/2.-kai-shi-xing-dong/2.9-zhi-ling-wei-tiao.md b/book/2.-kai-shi-xing-dong/2.9-zhi-ling-wei-tiao.md
@@ -1,4 +1,4 @@
-# 2.10 指令微调
+# 2.9 指令微调
 
 读者或许能够发现，训练数据的组织方式决定了模型的实际行为。之所以训练出的模型会一首接一首地写诗，是因为我们的训练数据就是这样设计的。在我们的数据集中，所有诗首尾相连串在一起，模型学习这些文本中的表述方式，自然也就学会了不停写诗。
 
@@ -22,7 +22,7 @@
 
 模型反复学习这种格式的文本，就会明白INS（instruction）、INP（input）、RES（response）分别代表指令、题目以及正文。当然，这里的关键字也是可以随便取的，只要训练和使用时保持一致即可。当然，由于我们只用这一条固定的指令，模型也就只会按照这个格式写诗。像OpenAI这样的商用模型，肯定会在每个字段都使用多样化的数据。
 
-指令微调的训练通常短于预训练。因为预训练阶段模型已经学会了如何说话，微调只是告诉他说话的格式，因而只需要训练一个增量，而不必从头开始。在2.9节预训练后的模型上做指令微调，可以看到如下效果。
+指令微调的训练通常短于预训练。因为预训练阶段模型已经学会了如何说话，微调只是告诉他说话的格式，因而只需要训练一个增量，而不必从头开始。在[2.8节](2.8-yu-xun-lian.md)预训练后的模型上做指令微调，可以看到如下效果。
 
 ```
 Epoch 0, step 0, train loss 0.0000, evaluate loss 8.5504

diff --git a/book/1.-tou-nao-feng-bao/1.1-cong-zhi-neng-dao-yu-yan.md b/book/1.-tou-nao-feng-bao/1.1-cong-zhi-neng-dao-yu-yan.md
@@ -4,7 +4,7 @@
 
 当然，你或许不了解到底怎样算是AI。毕竟，商家为了蹭热点，硬说自家产品是AI的也不在少数。事实上，AI与否本来就没有判定的标准，我们只能说，越接近人类这样的高级智能，越算是AI。
 
-而人相比于AI到底智慧在何处呢？简单来说，人可以思考各类问题，并融会贯通、举一反三。这种思考和学习的能力是AI所不具备的。AI往往只能做好某一件事，比如人脸识别的AI只能识别人脸，下围棋的AI只能下围棋。而人可以用很短的时间学会做某件事，从而掌握多种技能。
+而人相比于AI到底智慧在何处呢？简单来说，人可以思考各类问题，并融会贯通、举一反三。这种思考和学习的能力是AI所不具备的。AI往往只能做好某一件事，比如人脸识别的AI只能识别人脸，下围棋的AI只能下围棋。而人可以用很短的时间学会做某事，从而掌握多种技能。
 
 至于人为何有这般能力，科学家也不知道。但有一个可能的原因，就是人掌握了语言。别以为语言只是人所有技能中的一小部分，事实上，它可能是最重要的部分。上学的时候，老师就说过人和其它动物的最大区别是人有语言。当时听完颇为不解，不过现在我倒是明白了其中的道理。
 

diff --git a/book/2.-kai-shi-xing-dong/2.5-xu-lie-de-nan-ti.md b/book/2.-kai-shi-xing-dong/2.5-xu-lie-de-nan-ti.md
@@ -1,8 +1,8 @@
-# 2.6 序列的难题
+# 2.5 序列的难题
 
-新的问题正是我们在2.4节提到的，输入文本长短不一。
+新的问题正是我们在[2.3节](2.3-da-jian-mo-xing.md)提到的，输入文本长短不一。
 
-输入数据的语义化并没有改善这个问题，反而让它变得更复杂了。原本，我们面对的困难是，输入字数在1\~255之间变化。现在可好，输入变成了1\*1024\~255\*1024，范围扩大了许多。如果仿照2.4节的模式设计模型结构的话，对于字数最多的情况，模型就会长下面这样。
+输入数据的语义化并没有改善这个问题，反而让它变得更复杂了。原本，我们面对的困难是，输入字数在1\~255之间变化。现在可好，输入变成了1×1024\~255×1024，范围扩大了许多。如果仿照2.4节的模式设计模型结构的话，对于字数为255的情况，模型就会长下面这样。
 
 <figure><img src="../.gitbook/assets/flatten_full_connection.png" alt=""><figcaption><p>图2.2 所有字的1024维向量首尾相连作为神经网络的输入</p></figcaption></figure>
 

diff --git a/book/2.-kai-shi-xing-dong/2.1-shu-ju-you-xian.md b/book/2.-kai-shi-xing-dong/2.1-shu-ju-you-xian.md
@@ -1,8 +1,8 @@
-# 2.2 从数据出发
+# 2.1 数据优先
 
 正如前文提到的，我们通过规定输入输出的映射来规定AI的行为，因此，如何收集数据，如何设计合理的输入输出就是第一件要考虑的事情。
 
-出于计算资源的考虑，我们把任务目标局限到古诗这个语境内。原因有二，一是因为中国的古诗本身就不多，质量高且数据量不大。二是容易看到训练效果，同时人们一般不会对生成的古诗有太高期待。
+出于计算资源的考虑，我们把任务目标局限到古诗这个语境内。原因有二，一是因为中国的古诗本身就不多，质量高且数据量不大。二是容易看到训练效果，而且人们一般不会对生成的诗句太过挑剔。
 
 在配套代码仓库中，我已经事先准备好了中国的所有古诗，放在[data.json](../../data.json)文件里，以JSON格式保存。整个JSON对象是一个数组，数组中的每个元素是一首诗。我把开头第一首诗的部分贴在下面。
 
